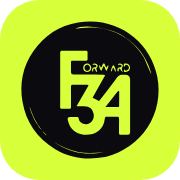
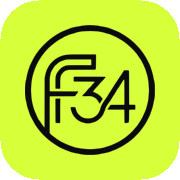
Logotipo nuevo de Forward34 en cabecera, íconos e imágenes para redes
El logotipo anterior (círculo negro relleno con "FORWARD" adentro) se
sustituye por el nuevo: círculo en contorno con el monograma F34 y la
palabra FORWARD. Solo existe en PNG blanco, así que los archivos se
generaron a partir de él:

- public/images/forward34-logo.png: versión horizontal a 2x (308x88) para
  la cabecera; todas las páginas apuntan a este archivo en lugar del SVG.
- favicon.ico, favicon.svg (envuelve el PNG de 192), favicon-16/32/48,
  apple-touch-icon, icon-192 e icon-512: mosaico verde con el círculo nuevo.
- og-default.png y og-consultoria.png: rehechas a 1200x630 con el logotipo
  nuevo, mismos textos que antes.

El SVG viejo se conserva en el repo para scripts/build-favicons.js, que ya
no refleja el logotipo actual. Cuando exista el vector del logotipo nuevo,
conviene sustituir los PNG por SVG.

diff --git a/index.html b/index.html
@@ -54,7 +54,7 @@
           "name": "Forward34",
           "legalName": "Forward34 S.A. de C.V.",
           "url": "https://forward34.com/",
-          "logo": "https://forward34.com/public/images/forward34-logo.svg",
+          "logo": "https://forward34.com/public/images/forward34-logo.png",
           "image": "https://forward34.com/public/images/og-default.png",
           "description": "Firma mexicana de estrategia y transformación organizacional que integra IA aplicada, procesos y enfoque humano.",
           "areaServed": "MX",
@@ -99,7 +99,7 @@
         <div class="header-container">
             <div class="logo">
                 <a href="index.html">
-                    <img src="public/images/forward34-logo.svg" alt="Forward34" class="logo-svg">
+                    <img src="public/images/forward34-logo.png" alt="Forward34" class="logo-svg">
                 </a>
             </div>
             <nav class="main-nav">

diff --git a/criterio/plantilla.html b/criterio/plantilla.html
@@ -126,7 +126,7 @@
         <div class="header-container">
             <div class="logo">
                 <a href="/index.html">
-                    <img src="/public/images/forward34-logo.svg" alt="Forward34" class="logo-svg">
+                    <img src="/public/images/forward34-logo.png" alt="Forward34" class="logo-svg">
                 </a>
             </div>
             <nav class="main-nav">

diff --git a/404.html b/404.html
@@ -31,7 +31,7 @@
         <div class="header-container">
             <div class="logo">
                 <a href="/index.html">
-                    <img src="/public/images/forward34-logo.svg" alt="Forward34" class="logo-svg">
+                    <img src="/public/images/forward34-logo.png" alt="Forward34" class="logo-svg">
                 </a>
             </div>
             <nav class="main-nav">

diff --git a/criterio/index.html b/criterio/index.html
@@ -75,7 +75,7 @@
         <div class="header-container">
             <div class="logo">
                 <a href="/index.html">
-                    <img src="/public/images/forward34-logo.svg" alt="Forward34" class="logo-svg">
+                    <img src="/public/images/forward34-logo.png" alt="Forward34" class="logo-svg">
                 </a>
             </div>
             <nav class="main-nav">

diff --git a/consultoria-ia.html b/consultoria-ia.html
@@ -154,7 +154,7 @@
         <div class="header-container">
             <div class="logo">
                 <a href="index.html">
-                    <img src="public/images/forward34-logo.svg" alt="Forward34" class="logo-svg">
+                    <img src="public/images/forward34-logo.png" alt="Forward34" class="logo-svg">
                 </a>
             </div>
             <nav class="main-nav">

diff --git a/contacto.html b/contacto.html
@@ -70,7 +70,7 @@
         <div class="header-container">
             <div class="logo">
                 <a href="index.html">
-                    <img src="public/images/forward34-logo.svg" alt="Forward34" class="logo-svg">
+                    <img src="public/images/forward34-logo.png" alt="Forward34" class="logo-svg">
                 </a>
             </div>
             <nav class="main-nav">

diff --git a/descubrete.html b/descubrete.html
@@ -60,7 +60,7 @@
         <div class="header-container">
             <div class="logo">
                 <a href="index.html">
-                    <img src="public/images/forward34-logo.svg" alt="Forward34" class="logo-svg">
+                    <img src="public/images/forward34-logo.png" alt="Forward34" class="logo-svg">
                 </a>
             </div>
             <nav class="main-nav">

diff --git a/empresa.html b/empresa.html
@@ -70,7 +70,7 @@
         <div class="header-container">
             <div class="logo">
                 <a href="index.html">
-                    <img src="public/images/forward34-logo.svg" alt="Forward34" class="logo-svg">
+                    <img src="public/images/forward34-logo.png" alt="Forward34" class="logo-svg">
                 </a>
             </div>
             <nav class="main-nav">

diff --git a/servicios.html b/servicios.html
@@ -60,7 +60,7 @@
         <div class="header-container">
             <div class="logo">
                 <a href="index.html">
-                    <img src="public/images/forward34-logo.svg" alt="Forward34" class="logo-svg">
+                    <img src="public/images/forward34-logo.png" alt="Forward34" class="logo-svg">
                 </a>
             </div>
             <nav class="main-nav">

diff --git a/recurso.html b/recurso.html
@@ -242,7 +242,7 @@
 
     <header class="rec-top">
         <a href="index.html" aria-label="Forward34">
-            <img src="public/images/forward34-logo.svg" alt="Forward34">
+            <img src="public/images/forward34-logo.png" alt="Forward34">
         </a>
     </header>
 
